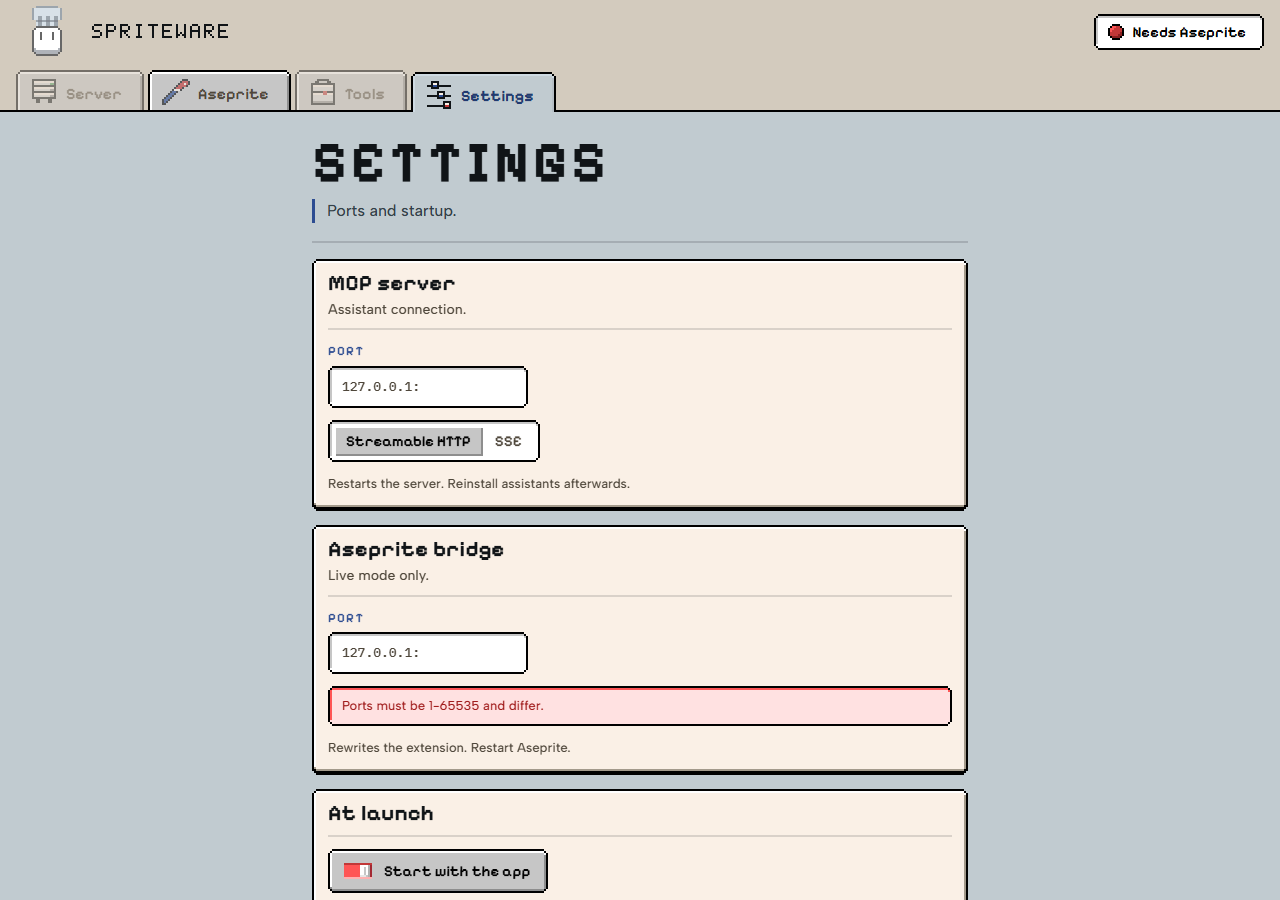
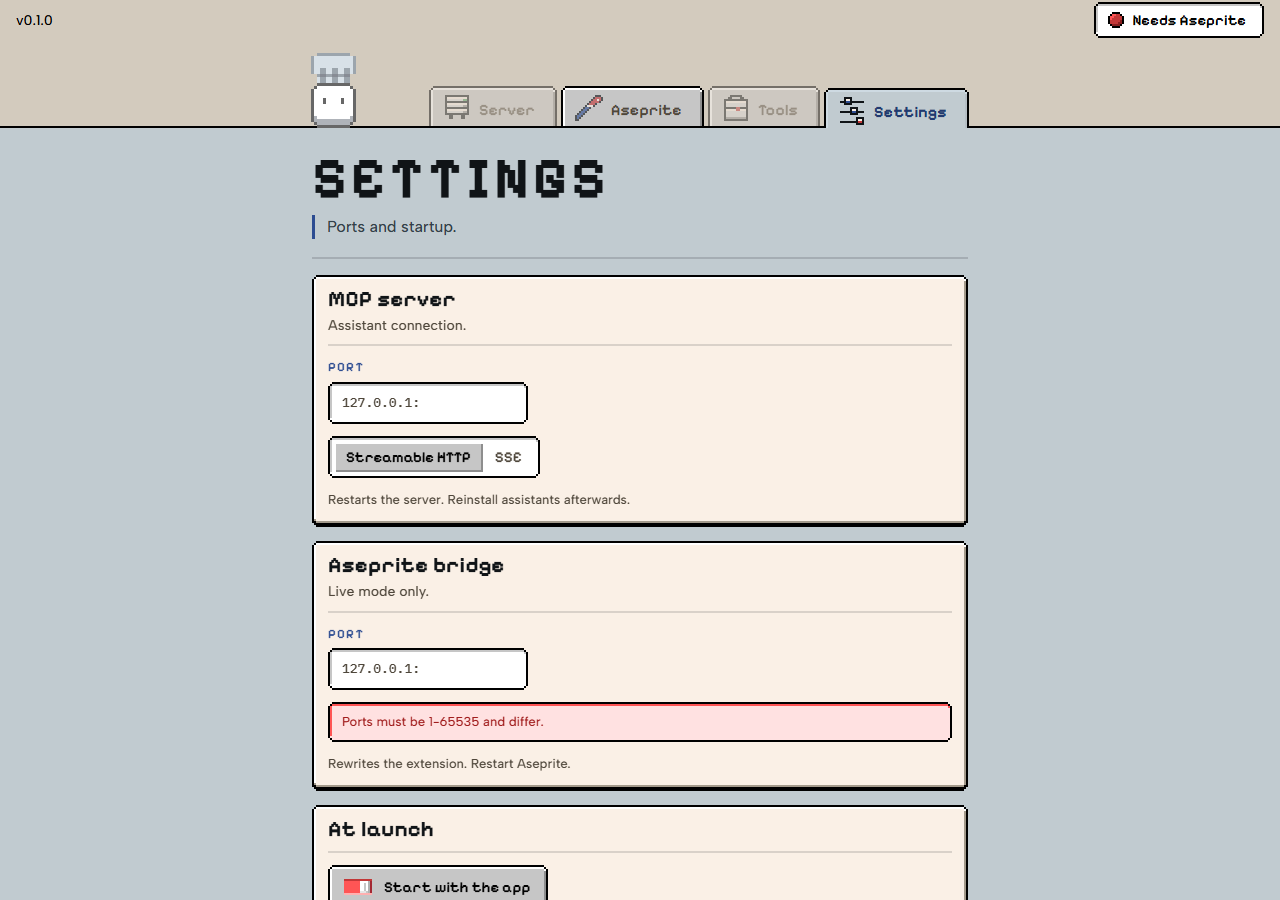
feat(design): update design elements and layout adjustments for topbar and tabstrip

Changed region(s): [[0.0, 0.0, 0.7812, 1.0], [0.8438, 0.0, 1.0, 0.0622]]

diff --git a/frontend/public/style.css b/frontend/public/style.css
@@ -371,7 +371,7 @@ pre {
 .topbar {
   display: flex;
   align-items: center;
-  justify-content: flex-end;
+  justify-content: space-between;
   gap: 16px;
   height: 40px;
   padding: 0 16px;
@@ -382,8 +382,9 @@ pre {
 .tabstrip {
   display: flex;
   align-items: flex-end;
-  gap: 16px;
-  height: 72px;
+  justify-content: center;
+  gap: 70px;
+  height: 88px;
   padding: 0 16px;
   border-bottom: 2px solid var(--black);
 }
@@ -392,14 +393,23 @@ pre {
   display: flex;
   flex: none;
   align-items: flex-end;
-  margin-bottom: -2px;
+  /* The sheet has eight art pixels of transparent padding either side of the
+     body. Trim the box to the body so the gap is measured from the mascot,
+     not from its padding. */
+  width: calc(16 * var(--mark-lg, 3px));
+  overflow: visible;
+  /* Four transparent rows under the feet, plus the rail's two pixels, come
+     back out so the mascot stands on the rail instead of floating. */
+  margin-bottom: calc(-4 * var(--mark-lg, 3px) - 2px);
 }
 
 .tabstrip__mark .px--mascot {
-  --px: var(--mark-px, 2px);
+  --px: var(--mark-lg, 3px);
+  margin-left: calc(-8 * var(--mark-lg, 3px));
 }
 
-/* The right-hand end of the strip: what this build is, then the state. */
+/* The top line: the build on the left, the connection state on the right. */
+.topbar__start,
 .topbar__end {
   display: flex;
   flex: none;
@@ -449,7 +459,6 @@ pre {
   align-items: flex-end;
   gap: 4px;
   height: 100%;
-  margin-left: auto;
 }
 
 .tab {
@@ -1438,7 +1447,7 @@ pre {
 
 @media (max-width: 560px) {
   .tabstrip {
-    gap: 8px;
+    gap: 24px;
   }
 }
 

diff --git a/frontend/src/main.js b/frontend/src/main.js
@@ -32,6 +32,10 @@ document.documentElement.style.setProperty(
   "--mark-px",
   `${Math.max(1, Math.round(2 * dpr)) / dpr}px`,
 );
+document.documentElement.style.setProperty(
+  "--mark-lg",
+  `${Math.max(1, Math.round(3 * dpr)) / dpr}px`,
+);
 
 const elm = window.Elm.Main.init({
   node: document.getElementById("app"),

diff --git a/DESIGN.md b/DESIGN.md
@@ -111,7 +111,7 @@ components:
 
 SpriteWare is a control panel for Aseprite's own MCP server, so it dresses as Aseprite: a beige window, a slate workspace, grey keys with black outlines, and a handful of drawn sprites. It borrows the host program's light theme on purpose. A person who opens it next to Aseprite should feel it belongs to the same toolbox, and should never have to learn a second visual language to read a status or press a button.
 
-The product is Operate-mode: a person starts a server, copies a config, and leaves. The interface therefore does one thing per screen, names it in a display title, and gets out of the way. Pixel art carries the personality (the mascot, the wordmark, the frames, the icons) and every other surface is flat, matte and legible. Nothing glows, shimmers or decorates. An earlier dark, starfield version was rejected because the effects cost readability.
+The product is Operate-mode: a person starts a server, copies a config, and leaves. The interface therefore does one thing per screen, names it in a display title, and gets out of the way. Pixel art carries the personality (the mascot, the frames, the icons) and every other surface is flat, matte and legible. Nothing glows, shimmers or decorates. An earlier dark, starfield version was rejected because the effects cost readability.
 
 **Key Characteristics:**
 - Aseprite's light theme, translated: beige window, slate workspace, white wells.
@@ -154,7 +154,9 @@ The palette is Aseprite's light theme (`aseprite-theme-light.xml`) with two addi
 **Display Font:** Pixelify Sans (variable) for titles inside cards, keys, tabs and labels.
 **Body Font:** Albert Sans (variable) for sentences.
 **Data Font:** IBM Plex Mono for paths, addresses, config text and tool names.
-**Title Face:** Pixelify Sans at display scale (40-58px, 700, uppercase). The 41-cell drawn glyph sheet (`glyphs.png`, A to Z, 0 to 9, space . : / -) is now only the wordmark: at page-title size its pale shadow muddied the letters and its 4px cells could not hold an edge across window widths.
+**Title Face:** Pixelify Sans at display scale (40-58px, 700, uppercase). Type keeps its edge at every window width; the drawn glyph sheet did not.
+
+**Mark:** the mascot is the wordmark now, standing on the tab rail at 3 screen pixels per art pixel. The old 41-cell drawn glyph sheet (`glyphs.png`) is retired from the chrome.
 
 **Character:** a pixel face for anything you press or navigate, a humanist sans for anything you read, a mono for anything you copy. Three voices, each tied to one job.
 
@@ -162,20 +164,20 @@ The palette is Aseprite's light theme (`aseprite-theme-light.xml`) with two addi
 - **Title** (Pixelify 700, 40-58px, 0.92 line-height): the page name, uppercase. One per screen.
 - **Display** (Pixelify 700, 22px, 1.15): card titles and the status word.
 - **Key / Tab** (Pixelify 600, 15 to 17px): labels on keys and tabs.
-- **Body** (Albert Sans 500, 14px, 1.5): sentences. Lead line is 15px, capped at 56ch.
+- **Body** (Albert Sans 500, 14px, 1.5): sentences. Lead line is 16px, capped at 54ch.
 - **Label** (Pixelify 600, 13px, 0.1em, uppercase, Link Blue): the small heading over a field.
 - **Data** (Plex Mono 500, 12.5 to 14px, 1.65 in blocks): everything copyable.
 
 ### Named Rules
-**The Display Title Rule.** The page title is set in Pixelify Sans, never from the glyph sheet. Body copy, labels, keys and the wordmark keep their own voices so the hierarchy never depends on a single asset.
+**The Display Title Rule.** The page title is set in Pixelify Sans, never from the glyph sheet. Body copy, labels and keys keep their own voices so the hierarchy never depends on a single asset.
 
 ## Layout
 
-One window, one column. A beige chrome strip holds the mark and the connection state, a tab strip below it names the three screens, and the slate stage under that holds a single column of cards, 720px at most, centred.
+One window, one column. A beige chrome strip holds a thin status line, then the tab rail: the mascot stands at the left, the tabs sit 70px to its right, and the pair is centred over the card column. The slate stage under that holds a single column of cards, 720px at most, centred.
 
 Spacing is a short scale: 4, 8, 12, 16, 24, 32. Cards stack at 16. Inside a card, groups sit 12 apart. The page head is the display title, a line of intent, and one hairline rule under both; there are no breadcrumbs or numerals.
 
-Tabs are a real tablist. The open tab is slate, 6px taller, and covers the 2px black rail under the strip so it joins the stage; its label is Link Blue, its icon at full colour, and its four-frame sprite plays. Closed tabs keep muted labels and dim their icons to 62%. At 760px and below the page loses side padding and the title steps down to 44px at most; at 560px the wordmark gives way to the mascot alone.
+Tabs are a real tablist. The open tab is slate, 6px taller, and covers the 2px black rail under the strip so it joins the stage; its label is Link Blue, its icon at full colour, and its four-frame sprite plays. Closed tabs keep muted labels and dim their icons to 62%. At 760px and below the page loses side padding and the title steps down to 44px at most.
 
 ### Named Rules
 **The One Column Rule.** There is no sidebar, grid of cards or second column. If a screen needs more, it is a longer column.
@@ -226,7 +228,7 @@ A grey key that opens a white list. Hover is Hover Cream; the chosen row is Lamp
 A double-edged cream window (black, white, grey, black), over a 45% black scrim. It names a path the app guessed and asks for confirmation. Focus is trapped inside; Escape declines.
 
 ### Signature: The Mascot
-A cream blob with an antenna, 16x16, three frames: eyes open, blinking, looking aside. It sits in the chrome and in the dialog. It blinks on a 5.2s loop, stepped.
+A cream robot with an antenna, 32x32 on a 12-frame sheet: an eased settle, a rest hold, then a blink. It is the brand mark now, standing on the tab rail at the left, and it also appears in the dialog. It blinks on a 1.54s stepped loop, smiles while the server is live, and blushes on hover.
 
 ### Signature: Lamps
 Eight-pixel gems: green and pulsing while the server listens, grey when stopped, blinking red when Aseprite is missing.
@@ -234,7 +236,7 @@ Eight-pixel gems: green and pulsing while the server listens, grey when stopped,
 ## Do's and Don'ts
 
 ### Do:
-- **Do** keep text on the slate Ink (#101417) and text on beige or white black.
+- **Do** keep text on the slate Ink (#101417) or Slate Ink (#334149), and text on beige or white black.
 - **Do** put one Lamp Red key on each screen and let everything else be grey.
 - **Do** draw new frames and icons through SpriteWare's own MCP tools, 2 screen pixels per art pixel, with a black outline and a 1px bevel.
 - **Do** step animation (`steps()`), and keep it to sprites, the page reveal and the scan band.
